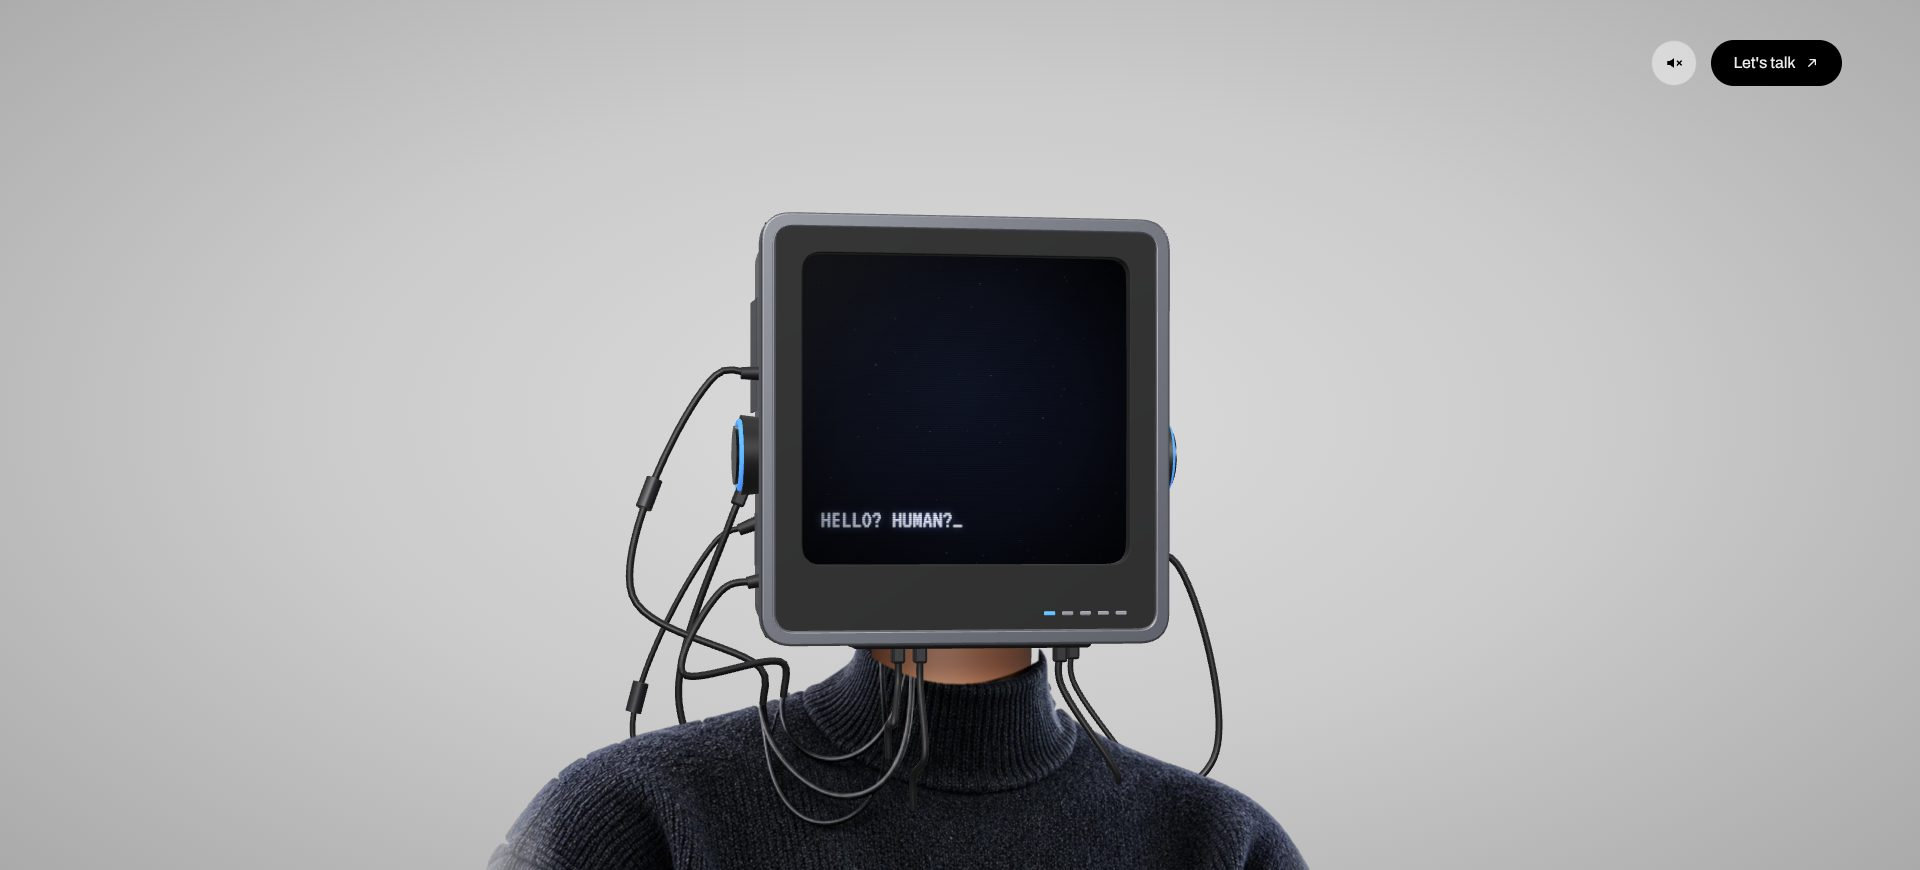
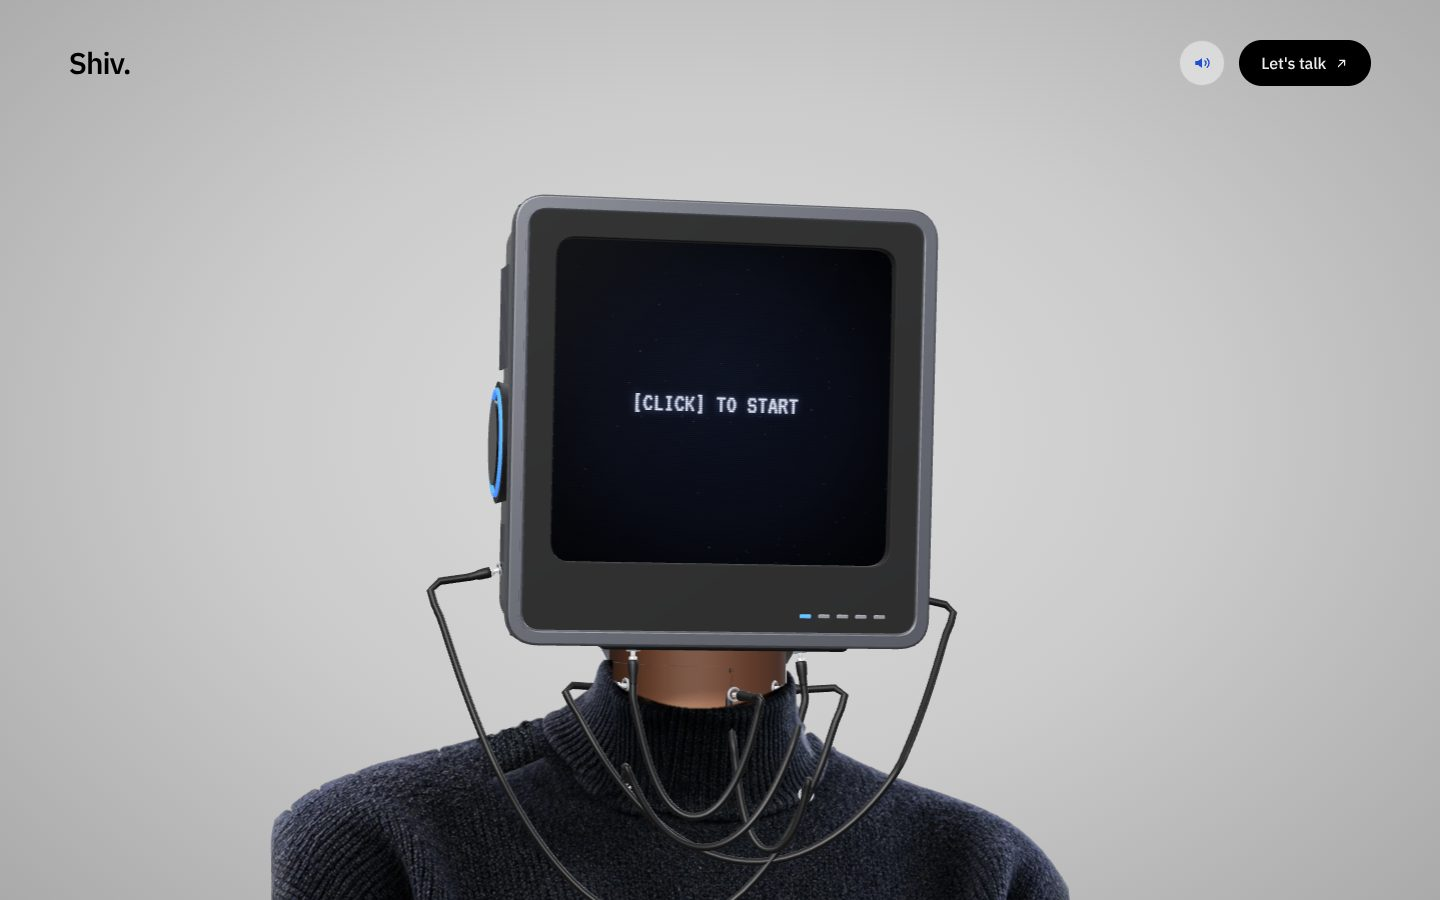
Docs: voice, motion tuning, type, learnings, fresh screenshots
Claude-Session: https://claude.ai/code/session_019ghhyDMPbT3q7TVoVscoWu

diff --git a/README.md b/README.md
@@ -4,6 +4,7 @@ Personal portfolio of Shivanand Shukla. The hero is a CRT-headed character that 
 
 ![State 1](docs/screenshots/desktop-idle.jpg)
 ![State 2](docs/screenshots/desktop-conversation.jpg)
+![State 2 on a phone](docs/screenshots/mobile-conversation.jpg)
 
 ## Deploy on Vercel (one time)
 
@@ -15,25 +16,42 @@ No environment variables are needed.
 
 ## Change the words
 
-Everything the site says lives in [`src/hero/content.ts`](src/hero/content.ts): the status line, the State 2 introduction, the three cards, the sections below the hero, the closing contact block and the contact links. The copy has no full stops on purpose; where a line holds two sentences, `\n` puts them on two lines.
+Everything the site says lives in [`src/hero/content.ts`](src/hero/content.ts): the status line, the State 2 introduction, the three cards, the section each card opens, and the contact links. The copy has no full stops on purpose; where a line holds two sentences, `\n` puts them on two lines.
+
+## His voice
+
+Every line in `intro.lines` and `intro.body` is spoken while its words appear. The clips are in `public/voice/` (one small MP3 per line, about 72 KB in all, Kokoro's `am_michael` voice with a light "machine" treatment) with their word timings in `manifest.json`. After you edit a spoken line, regenerate them:
+
+```bash
+pip install kokoro-onnx soundfile numpy scipy   # plus ffmpeg
+# model files: github.com/thewh1teagle/kokoro-onnx/releases (model-files-v1.0)
+python3 scripts/make_voice.py --model kokoro-v1.0.int8.onnx --voices voices-v1.0.bin
+```
+
+Until you do, an edited line is read by the visitor's browser voice, so nothing breaks. Sound is on by default (browsers start it on the first click); the speaker in the top bar mutes everything and is remembered.
 
 ## How State 2 works
 
-- Everything types in: title, subtitle, then the two serif lines; then the main button, restart and the three glass photo cards land together (about 2.5 seconds from the click).
-- Once State 2 is up the page scrolls. Below the hero there is one section per card, then a contact block. "View my work" and the cards scroll to their section. Restart goes back to the top and State 1, and locks scrolling again.
-- About every 3 seconds one pronoun flips I -> we (my -> our, myself -> ourselves) with a glitch, then flips back. The word list is in [`src/hero/pronouns.ts`](src/hero/pronouns.ts), the timing in `timings.ts`.
+- One screen, never scrolls, at any size. The type scale follows the smaller of width and height.
+- The lines are revealed word by word with the voice. The main button, restart and the three cards arrive after the second line and pulse with his voice. Clicking the text finishes the current line.
+- "View my work" and the cards open their section in place of the introduction, with a Back button. Restart returns to State 1.
+- Every 9 to 14 seconds one pronoun flips I -> we (my -> our, ...): it glitches in, holds for 1.8 s, flickers as he notices, and glitches back. Words in [`src/hero/pronouns.ts`](src/hero/pronouns.ts), timing in `timings.ts`.
+
+## Type
+
+IBM Plex Sans for Shiv's lines and IBM Plex Mono for system lines (the screen keeps VT323), self-hosted through `next/font`. Two other pairings are ready: add `?font=geist` or `?font=inter` to the URL to preview them, and change `PAIRING` in [`app/fonts.ts`](app/fonts.ts) to switch.
 
 ## Music
 
-The background track is `public/audio/the-mountain.mp3` ("The Mountain", 96 seconds, looped, re-encoded to 128 kbps). It starts with the visitor's first click into State 2, fading in, unless they have already turned the speaker off. Swap the file to change the music; the level is `MUSIC_LEVEL` in [`src/hero/sound.ts`](src/hero/sound.ts).
+The background track is `public/audio/the-mountain.mp3` ("The Mountain", 96 seconds, looped). It starts with the visitor's first click, fades in, and ducks under his voice. The level is `MUSIC_LEVEL` in [`src/hero/sound.ts`](src/hero/sound.ts).
 
 ## Change the pictures on the screen
 
 Before anyone clicks, the screen flashes pictures for a few seconds, broadcast in CRT colours with glitches. They are listed in `screen.images` in `src/hero/content.ts`. Put your own photos in `public/screen/` and add their paths there; `pixel:heart`, `pixel:bulb`, `pixel:spark` and `pixel:hi` are built in.
 
-## Change the timing
+## Change the timing and the motion
 
-Every duration (nudges, typing speed, the glitch, the slide, blinks, the head's lag) and how much the body follows the head is a named constant in [`src/hero/timings.ts`](src/hero/timings.ts).
+Every duration (nudges, the glitch, the slide, blinks) is in `T`, every head, neck and torso spring and range in `MOTION`, and the cords' thickness and physics in `CABLE`, all in [`src/hero/timings.ts`](src/hero/timings.ts). To tune the motion live, run `npm run dev` and open `http://localhost:3000/?tune`: a panel with a slider for every constant (not part of production builds). `?pose=40,18` holds the head at a fixed yaw and pitch, for checking extremes.
 
 ## Run it locally
 
@@ -54,15 +72,18 @@ Add `?nowebgl` to the URL to see the photo fallback that browsers without WebGL 
 | `src/hero/pronouns.ts` | The I <-> we flip: which words swap and how |
 | `src/hero/screen/engine.ts` | Draws the monitor screen live on a canvas: stars, text, caret, flicker, power-on, the face |
 | `src/hero/character/Character.tsx` | The one `<Character />` interface: photo first, then the 3D head |
-| `src/hero/character/Crt3D.tsx` | The procedural 3D monitor (React Three Fiber). Swap for a GLB here |
-| `src/hero/sound.ts` | The background track (looped, faded through a gain node so it also fades on iOS), plus a soft power-on swell and a faint glitch crackle |
-| `scripts/make_plates.py` | Rebuilds `public/character/body.*` and `front-blank.*` from `front.png` |
+| `src/hero/character/Crt3D.tsx` | The 3D character: procedural monitor, bending neck, 2.5D sweater, rope cords (React Three Fiber). Swap the monitor for a GLB here |
+| `src/hero/character/physics.ts`, `springs.ts` | The rope and re-bendable tube for the cords; the spring helpers |
+| `src/hero/voice.ts` | Speaks each line and reveals its words in time |
+| `src/hero/sound.ts` | Music, the voice's analyser, mute, and the small effects |
+| `scripts/make_voice.py` | Regenerates the voice clips from `content.ts` |
+| `scripts/make_plates.py` | Rebuilds `public/character/body.*` from `front.png` (cords painted out) |
+| `scripts/bake_still.py` | Bakes `front-blank.*`, the first-paint still of the 3D character |
 
 Details: [requirements](docs/plans/2026-10-20-1931-feat-crt-hero-plan.md), [visual direction](docs/design/hero-direction.md), [lessons learned](docs/learnings.md).
 
 ## Notes
 
-- **First paint.** The page paints the photo of the character immediately, then loads the 3D head (about 240 KB gzipped) in the background and crossfades to it. The first-paint JavaScript is about 220 KB gzipped, most of which is the Next.js and React runtime itself.
-- **Reduced motion.** With "reduce motion" on, the head holds still, the character jumps instead of sliding, and text appears at once.
-- **First-paint photo.** The photo that paints before the 3D head (and the no-WebGL fallback) still shows the original silver monitor. On a normal laptop the slimmer dark grey 3D head replaces it within about a second.
+- **First paint.** The page paints a still of the 3D character immediately (also what browsers without WebGL keep), then loads the 3D scene in the background and crossfades to it, so nothing visibly swaps. The first-paint JavaScript is about 226 KB gzipped; voice clips load only once State 2 starts.
+- **Reduced motion.** With "reduce motion" on, the head holds still, the character jumps instead of sliding, and text appears at once; the voice still reads the lines if sound is on.
 - **Better assets.** A taller `body.png` (sweater from the jawline to mid-torso, transparent background) would let the sweater reach the bottom of tall phones without the stretched strip at the very bottom. Drop it in `public/character/` and rerun the script, or ask Claude to wire it in.

diff --git a/docs/learnings.md b/docs/learnings.md
@@ -50,10 +50,36 @@ Scaling the torso group scales everything inside it, including depth. Three thin
 
 A short, evenly lit, bright neck reads as a flat block. The photo's neck is a warm, fairly dark tone (about rgb 110, 72, 54) that falls into the monitor's shadow toward the top. The 3D neck's base colour and painted-in vertex shading match that, with darker sides so it reads as round. If the neck's length changes, re-check the shading range (`smooth(...)` on `t`), since it is measured along the neck.
 
-## Scrolling a page whose hero is a fixed stage
-
-The hero used to be `position: fixed` with the whole document locked. Now the hero is an ordinary 100dvh block and `<html data-scroll>` decides whether the page may scroll ("on" only in State 2). The character keeps working because its box is laid out relative to the hero, which sits at the top of the document; the cursor's y has `scrollY` added before aiming the head; and the 3D pauses once the hero has scrolled out of view. The top bar is `position: fixed` and gets a frosted backing as soon as the page moves.
-
 ## Keep the 3D canvas no bigger than it needs to be
 
 The canvas covers the character box plus margins (`CANVAS` in geometry.ts). Widening the sides to 0.34 for the scaled-up torso made it about 7 million pixels with shadows on a 1920 screen, enough to make the whole page, scrolling included, feel stuck on a modest GPU. With the torso back at its photographed size, 0.18 is enough. Headless tests here render WebGL in software, so they cannot judge scroll smoothness: every wheel listener on the page is passive, which is what matters on real hardware.
+
+## Springs, and why these numbers
+
+The head is a second-order spring per axis, integrated in 1/240 s sub-steps of the real frame time (`springs.ts`), so it feels the same at any frame rate. ω = 18 rad/s with ζ = 0.75 reaches 90% of a step in about 155 ms with a 3% overshoot: fast enough to read as "looking at you", and the overshoot is what makes a fast flick snap. The old version was a single exponential with λ = 2.2 (about 450 ms to 63%), which is why it felt like a sticker drifting. A critically damped follower lags a moving target by about 2/ω, which sets the layers: the neck (ω = 50, ~40 ms) chases the head, the torso (ω = 13, ~150 ms) chases a quarter of it. That overlap, not the range, is most of what makes it feel alive. Pointer data stays in a mutable object; React never re-renders on pointermove.
+
+The cursor is turned into angles by projecting it onto a plane in front of the head (`atan2(dx, 0.55·viewport height)`), multiplied by a gain of 1.25 and passed through `max·tanh(x/max)`. Near the head that is almost linear with a slope above 1, so small moves show; at the edges it eases into the limit instead of stopping.
+
+## The 2.5D torso
+
+A flat plate turning in 3D just slides. The sweater stays facing the camera and its vertex shader moves each vertex as if the photo were wrapped round an ellipse (half-width 5.2, half-depth 2.3 units) turned by the torso's yaw, minus the centre's own shift, which the torso group provides by turning round an axis 2.3 units behind the sweater. Two details matter. The collar band moves by the neck's depth, not the chest's, or the neck slides out of its hole in the collar. And `plateWarp()` in Crt3D repeats the shader's maths so the collar plugs ride on the same surface. A 3D torso would need a knit GLB; the 2.5D plate keeps the photo's real knit.
+
+## Cords as ropes
+
+Each cord is a verlet chain of 22 points with a fixed length (slack × the plugs' distance at rest), 20 length passes per 1/120 s step, gravity 140 units/s². The two points at each end are pinned along the plug's axis, so a cord always leaves its boot straight. Three things went wrong before it looked right: the tube's triangles were wound inward, so cords looked hollow and grey and the neck striped (`Tube` winds counter-clockwise from outside); a sharp-cornered collision box made cords kink round invisible corners (it is now a rounded box, by distance field); and a hard "stay in front of the sweater below the collar" rule made cords jump forward at the rim (the minimum depth now eases in over 0.6 units). Plug every cord on the side it comes from, or it wraps round the neck.
+
+## The neck seam
+
+The seam had two causes. The tube met the flat underside of the monitor with nothing between them, so at any angle there was a hard edge, and the photo's neck hole in the collar showed the backdrop whenever the neck bent away from it. The neck now goes up into a rubber grommet that belongs to the head (so it turns with it), and a half-cylinder of dark knit sits behind the neck as the inside of the turtleneck. The neck also carries 35% of the head's bend, so the head rides on an arc rather than pivoting on one point.
+
+## Voice and loudness
+
+Web Speech audio cannot be routed through WebAudio, so its loudness cannot be measured. The clips are pre-generated (Kokoro offline TTS), played as buffers through an AnalyserNode in front of the master gain, and the RMS of each frame drives a CSS variable `--vox` on the hero (one style write per change, no React) and the face. The buttons use the separate `scale` property, which composes with the transform Motion writes. Kokoro gives no word timings, so each sentence is synthesised on its own (exact sentence boundaries) and words within it are timed by syllable weight. A clip is only used when its stored text matches the line exactly; otherwise the browser voice reads it.
+
+## Keeping three.js out of the first paint
+
+`Hero` imported one tiny helper from a file that also imported three.js, which pulled 100 KB into the first-paint bundle. The plain-number helpers now live in `springs.ts`. Check `first-load` after any import into the page from `character/`.
+
+## Focus after an animated swap
+
+With `AnimatePresence mode="wait"`, a new element mounts only after the old one has left, and on a slow device a timeout is not enough. Focus is moved from the element's ref callback when it mounts.
